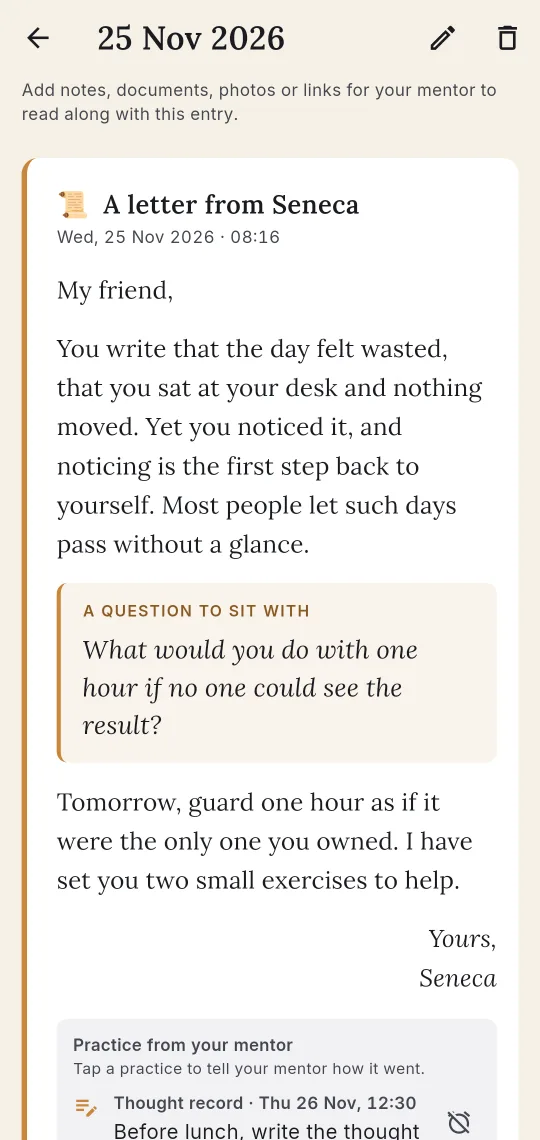
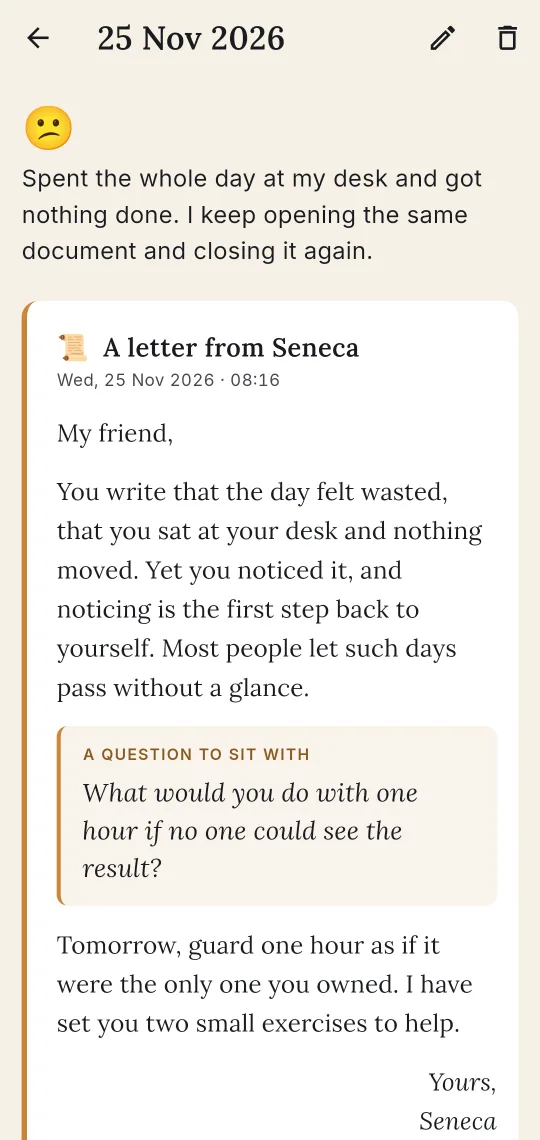
content: remove the sources feature page and mentions; screenshots without sources

diff --git a/src/features/mentor-letters.md b/src/features/mentor-letters.md
@@ -21,4 +21,4 @@ shots:
 ---
 Most journals keep what you write and say nothing. In Letterlight, you pick someone to read the entry, and a letter comes back.
 
-Your journal is stored on your phone. To write a letter, the app sends the entry, its sources and the conversation so far through Letterlight's server to Anthropic, which makes the AI. [How your data is handled](/privacy.html).
+Your journal is stored on your phone. To write a letter, the app sends the entry and the conversation so far through Letterlight's server to Anthropic, which makes the AI. [How your data is handled](/privacy.html).
